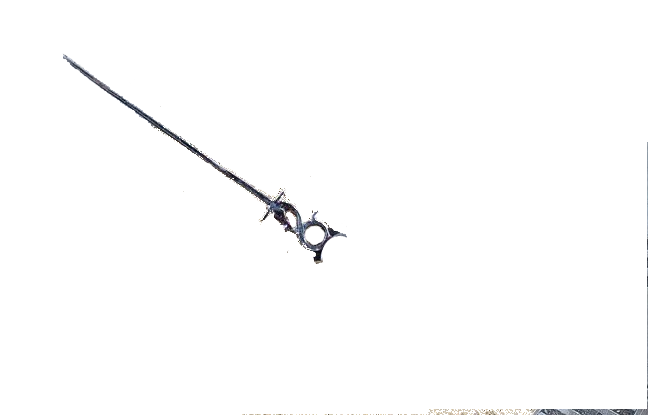
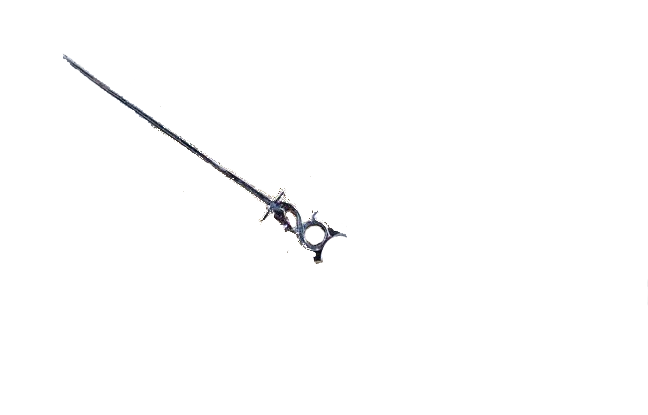
minute shadow

Changed region(s): [[0.6481, 0.347, 1.0, 1.0], [0.4012, 0.9831, 0.4321, 1.0]]

diff --git a/styles.css b/styles.css
@@ -37,8 +37,8 @@ body {
   left: 112px;
   /* transform: translate(-50%, -50%); */
   /* box-shadow: 5px -5px 5px 0px #4f4941; */
-  transform: rotate(0deg);
-  border: 5px solid red;
+  transform: rotate(190deg);
+  /* border: 5px solid red; */
 }
 
 .shadow-hour {
@@ -51,8 +51,8 @@ body {
   background-size: 350px;
   background-repeat: no-repeat;
   background-position: 84px;
-  border: 3px solid blue;
-  transform: rotate(4deg);
+  /* border: 3px solid blue; */
+  transform: rotate(194deg);
   opacity: 50%;
 }
 .minute {
@@ -68,8 +68,8 @@ body {
   background-position: -14px 32px;
   /* background-color: blue; */
   /* background-color: transparent; */
-  transform: rotate(200deg);
-  border: 3px solid black;
+  transform: rotate(250deg);
+  /* border: 3px solid black; */
   border-radius: 50%;
 }
 .shadow-minute {
@@ -77,13 +77,13 @@ body {
   width: 350px;
   height: 350px;
 
-  top: 95px;
-  left: 91px;
+  top: 125px;
+  left: 112px;
   background-repeat: no-repeat;
-  background-size: 160px;
-  background-image: url(./shadowminuteArrow.png);
-  background-position: -12px 35px;
-  border: 3px solid white;
-  transform: rotate(200deg);
+  background-size: 350px;
+  background-image: url(./minuteArrows\(1\)Shadow.png);
+  background-position: -18px 38px;
+  /* border: 3px solid white; */
+  transform: rotate(252deg);
   opacity: 50%;
 }

diff --git a/index.html b/index.html
@@ -12,10 +12,10 @@
         <div class="hour">
           <div class="minute"></div>
         </div> -->
-         <div class="shadow-minute">shadow minute</div>
-         <div class="minute">minute</div>
-        <div class="shadow-hour">shadow hour</div>
-        <div class="hour">hour</div>
+         <div class="shadow-minute"></div>
+         <div class="minute"></div>
+        <div class="shadow-hour"></div>
+        <div class="hour"></div>
        
        
       </div>
